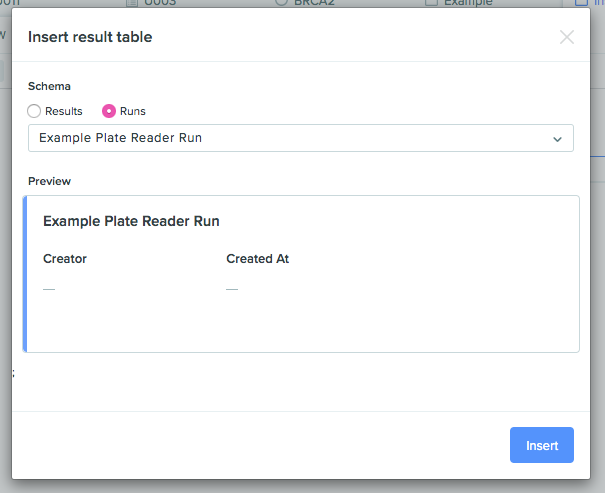
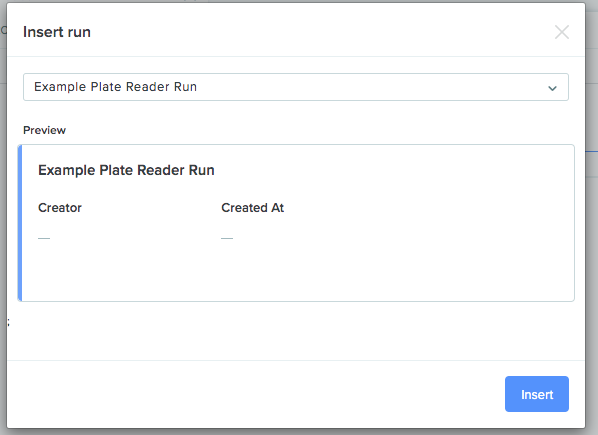
Update instructions for inserting a run

Changed region(s): [[0.0, 0.0, 1.0, 1.0], [0.903, 0.269, 0.9331, 0.2989], [0.903, 0.1793, 0.9331, 0.2092]]

diff --git a/upload_results/README.md b/upload_results/README.md
@@ -106,9 +106,9 @@ python upload.py --domain example.benchling.com --api-key $YOUR_API_KEY --run-sc
 
 After running the script, the results can be viewed in any Notebook entry.
 
-- Open the Insert menu and select the option for `Result table`
+- Open the Insert menu and select the option for `Run`
 
-![Result table](images/insert-result-table.png)
+![Run](images/insert-run.png)
 
 - Insert an `Example Plate Reader Run`
 
